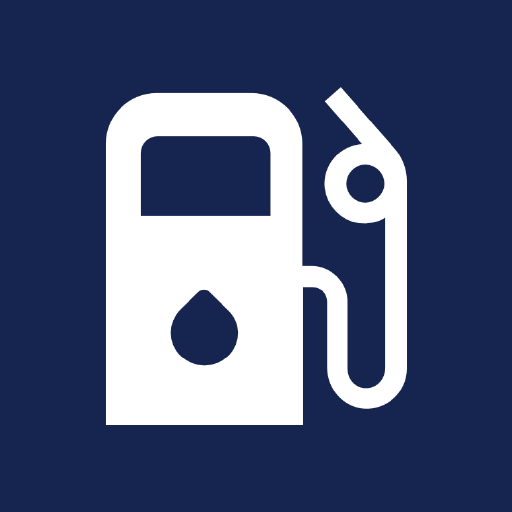
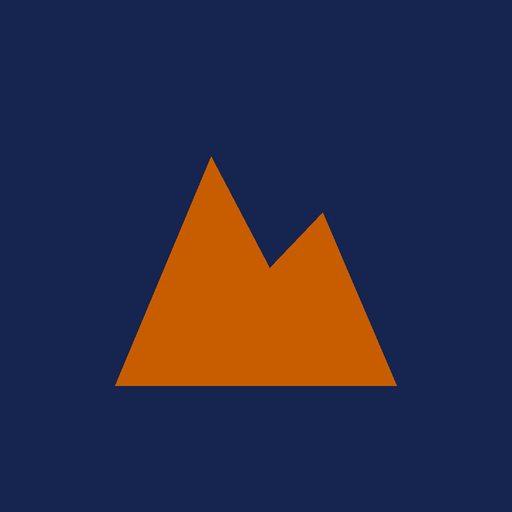
evidencia mantenimiento operacion y

Changed region(s): [[0.1875, 0.1562, 0.8125, 0.8438]]

diff --git a/vite.config.js b/vite.config.js
@@ -26,6 +26,21 @@ export default defineConfig({
         }),
         VitePWA({
             registerType: 'autoUpdate',
+            // laravel-vite-plugin fija el `base` de Vite en "/build/" (ahí viven los
+            // assets compilados). vite-plugin-pwa, si no se le indica lo contrario,
+            // reutiliza ESE MISMO base como `scope` del Service Worker al registrarlo
+            // — es decir, sin esto el SW quedaba con scope "/build/" y nunca llegaba a
+            // controlar el resto del sitio ("/", "/dashboard", etc.), rompiendo el
+            // soporte offline y el criterio de instalabilidad de Chrome (el scope
+            // efectivo del SW debe cubrir el `start_url`, "/"). Se fija explícitamente
+            // a la raíz del sitio. NO se toca `base` (sigue en "/build/", el de Vite):
+            // el archivo sw.js se sigue sirviendo físicamente desde /build/sw.js —de
+            // ahí dependen, relativas a esa carpeta, las rutas del precache— y para que
+            // el navegador acepte un scope de registro ("/") más amplio que la carpeta
+            // donde vive el script ("/build/") el servidor debe responder ese request
+            // con la cabecera `Service-Worker-Allowed: /` (ver public/.htaccess y la
+            // nota para Nginx en .ai/rules).
+            scope: '/',
             includeAssets: [
                 'favicon.ico',
                 'favicon-16x16.png',
@@ -65,6 +80,13 @@ export default defineConfig({
                 ],
             },
             workbox: {
+                // El default de generateSW ("index.html") es para SPAs con un único
+                // shell estático: no aplica acá, cada ruta la renderiza Laravel/Inertia
+                // en el servidor con props distintas por página. Con scope "/" activo
+                // (ver arriba), dejar el default haría que el SW intente servir un
+                // "/index.html" que no existe ante cualquier navegación offline no
+                // cacheada, en vez de dejar que el navegador la reporte sin conexión.
+                navigateFallback: null,
                 navigateFallbackDenylist: [/^\/api/],
                 cleanupOutdatedCaches: true,
                 // Los íconos PWA/favicons y las fotos (vehículos, conductores, logo)

diff --git a/resources/js/Components/InstallPwaPrompt.vue b/resources/js/Components/InstallPwaPrompt.vue
@@ -90,7 +90,7 @@ onBeforeUnmount(() => {
     <Transition name="pwa-banner-fade">
         <div v-if="visible" class="pwa-install-banner" role="status" aria-live="polite">
             <span class="pwa-install-icon">
-                <i class="ri-gas-station-fill"></i>
+                <i class="ri-landscape-fill"></i>
             </span>
 
             <div class="pwa-install-texto">

diff --git a/resources/views/app.blade.php b/resources/views/app.blade.php
@@ -7,6 +7,20 @@
 
     <title inertia>{{ config('app.name', 'SIGET') }}</title>
 
+    <!-- Open Graph / Twitter Card: controla la tarjeta que arma WhatsApp,
+    Telegram, Slack, Facebook, etc. al compartir el enlace. Sin estas
+    etiquetas cada plataforma decide por su cuenta qué mostrar (a veces cae
+    en un <title> o metadata vieja cacheada por el propio crawler). -->
+    <meta property="og:site_name" content="{{ config('app.name') }}">
+    <meta property="og:title" content="{{ config('app.name') }}">
+    <meta property="og:description" content="Gestión integral de maquinaria y operaciones: vehículos, conductores, combustible y mantenimiento.">
+    <meta property="og:image" content="{{ asset('pwa-512x512.png') }}">
+    <meta property="og:url" content="{{ url()->current() }}">
+    <meta property="og:type" content="website">
+    <meta name="twitter:card" content="summary">
+    <meta name="twitter:title" content="{{ config('app.name') }}">
+    <meta name="twitter:image" content="{{ asset('pwa-512x512.png') }}">
+
     <!-- Fonts -->
     <link rel="preconnect" href="https://fonts.bunny.net">
     <link href="https://fonts.bunny.net/css?family=figtree:400,500,600&display=swap" rel="stylesheet" />

diff --git a/.ai/rules/js-2.md b/.ai/rules/js-2.md
@@ -1,0 +1,13 @@
+---
+paths:
+  - 'vite.config.js,public/.htaccess,resources/js/app.js'
+---
+
+# Js 2
+
+## PWA: scope del Service Worker y cabecera Service-Worker-Allowed
+laravel-vite-plugin fija el `base` de Vite en "/build/" (ahí compila los assets). vite-plugin-pwa, si no se le pasa `scope` explícito, hereda ESE MISMO base como scope de registro del Service Worker → el SW quedaba con scope "/build/" y nunca controlaba el resto del sitio (rompía offline + instalabilidad: Chrome exige que el scope efectivo cubra `start_url`, "/"). Fix en vite.config.js: `VitePWA({ scope: '/', ... })`, SIN tocar `base` (si se pone `base:'/'` también, cambia dónde el cliente espera el archivo — pasaría a pedir `/sw.js` en vez de `/build/sw.js`, donde realmente se escribe, y además las rutas relativas del precache manifest — `assets/xxx.js`, relativas a la carpeta del propio sw.js — dejarían de resolver).
+
+Con scope "/" pero el script sirviéndose físicamente desde "/build/sw.js", el navegador exige que esa respuesta traiga la cabecera `Service-Worker-Allowed: /` — si falta, `register()` rechaza con SecurityError (se captura en `onRegisterError` de resources/js/app.js, no rompe la app, pero la PWA deja de ser instalable). Se agregó en public/.htaccess (`<Files "sw.js"> Header set Service-Worker-Allowed "/" </Files>`, requiere mod_headers) — sólo cubre Apache. Si producción corre Nginx (o cualquier otro servidor) hace falta el equivalente en su config (`add_header Service-Worker-Allowed "/";` en el location que sirve /build/sw.js), fuera de este repo — no asumir que ya está resuelto sin verificarlo ahí.
+
+También se quitó `workbox.navigateFallback` (default "index.html" de generateSW, pensado para SPAs de shell único) — no aplica: cada ruta la renderiza Laravel/Inertia en servidor con props distintas, no hay un index.html único que sirva de fallback offline.

diff --git a/.ai/rules/index.md b/.ai/rules/index.md
@@ -23,6 +23,7 @@ Before planning or editing, find the row whose globs match the file's path and r
 | app/Models/OrdenTrabajo.php,app/Models/DetalleMantenimiento.php,app/Http/Controllers/OrdenTrabajoController.php | .ai/rules/http-controllers.md |
 | app/Http/Controllers/ConductorController.php,app/Models/Conductor.php,app/Http/Requests/ConductorRequest.php | .ai/rules/http-requests.md |
 | app/Http/**/*.php | .ai/rules/http.md |
+| vite.config.js,public/.htaccess,resources/js/app.js | .ai/rules/js-2.md |
 | app/Models/Vehiculo.php,app/Models/TipoVehiculo.php,app/Http/Requests/VehiculoRequest.php,app/Http/Requests/TipoVehiculoRequest.php,app/Http/Controllers/VehiculoController.php,resources/js/Pages/Vehiculos/**,resources/js/Pages/TiposVehiculo/**,resources/js/Components/UnidadCapacidadSelect.vue | .ai/rules/js-components.md |
 | app/Http/Controllers/CargaMaterialController.php,app/Libraries/Reportes.php,resources/js/Pages/ControlCargas/*.vue | .ai/rules/js-pages-control-cargas.md |
 | app/Libraries/ReportesExcel.php,app/Http/Controllers/CargasCombustibleReportController.php,app/Http/Controllers/ControlCargasReportController.php,app/Http/Controllers/OperacionDiariaReportController.php,resources/js/Pages/Reportes/** | .ai/rules/js-pages-reportes.md |
